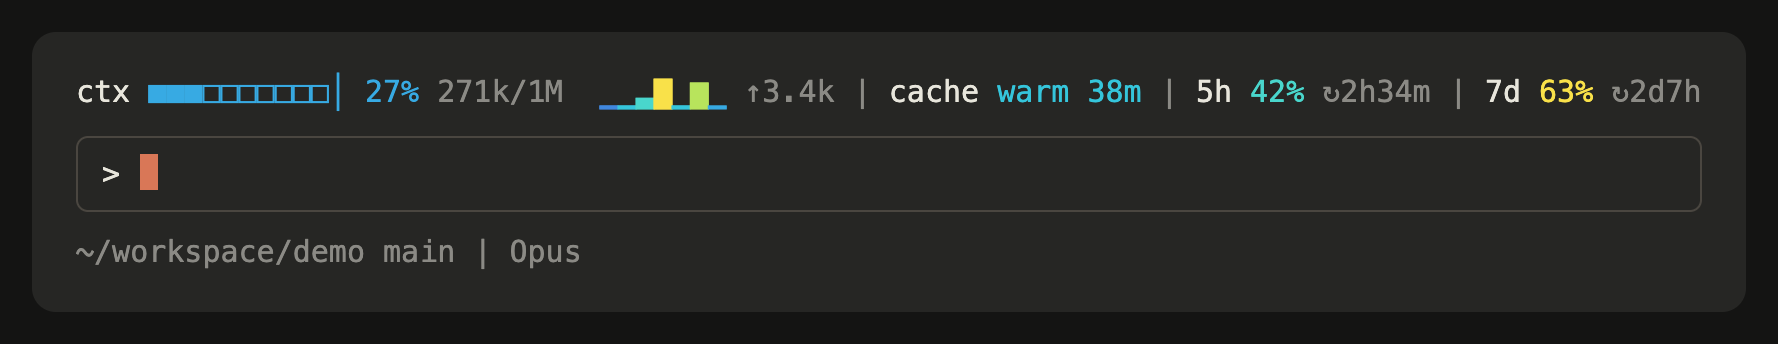
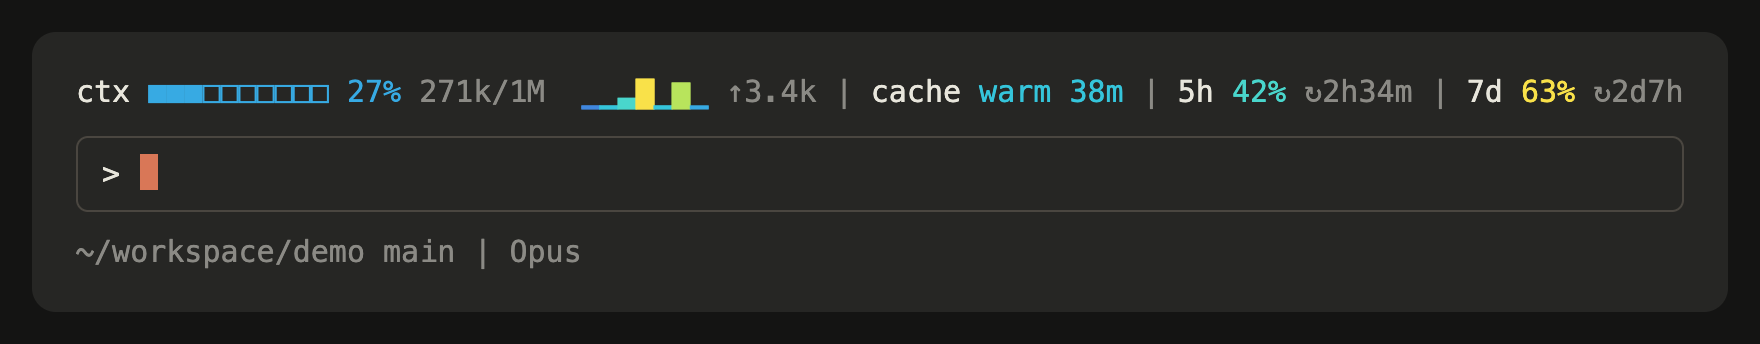
Remove the auto-compaction mark from the context bar
On the 1M window most sessions run, the threshold (967k) rounds to the bar's end, where `│` read as a
separator between the bar and its figures and said no more than the bar's end. The bar, its Svg and the
terminal's multi-coloured cells drop the mark (MARK, markCell, compactMark, the Span fields); the pane keeps
the threshold and the tokens to go as text. Docs, READMEs, site and screenshots follow.

Changed region(s): [[0.0312, 0.2035, 0.9688, 0.3198], [0.0312, 0.6977, 0.3438, 0.7849], [0.0625, 0.4942, 0.0938, 0.5233]]

diff --git a/plugin/hooks/format.ts b/plugin/hooks/format.ts
@@ -18,16 +18,14 @@ export function cacheTier(left: number, ttl: number): number {
 // Context totals kept for the sparkline: 8 totals, 7 bars.
 export const HISTORY = 8
 const BARS = '▁▂▃▄▅▆▇█'
-// Where auto-compaction runs, drawn between two cells of the context bar.
-export const MARK = '│'
 // The window growth is tiered by before any is known.
 export const FALLBACK_WINDOW = 1_000_000
 // Model families a rate-limit window may be named after.
 const FAMILIES = ['fable', 'opus', 'sonnet', 'haiku']
 
 // `text` is what the terminal draws and what widths count; `tier` its colour on the band's one scale (`GAIN`),
-// absent for plain text (the labels). A span with `bar` (a used percentage, with the auto-compaction `mark`
-// in its `markTier`) or `spark` (the gains, with their `tiers`) is a graphic: block glyphs line up only in a
+// absent for plain text (the labels). A span with `bar` (a used percentage) or `spark` (the gains, with their
+// `tiers`) is a graphic: block glyphs line up only in a
 // monospace font, so the desktop, which draws the band in a proportional one, draws those as an Svg instead
 // (`items`).
 export type Span = {
@@ -35,8 +33,6 @@ export type Span = {
   tier?: number
   dimColor?: boolean
   bar?: number
-  mark?: number
-  markTier?: number
   spark?: number[]
   tiers?: number[]
 }
@@ -89,16 +85,12 @@ export function colorOf(s: Span): string | undefined {
 
 export type Cell = { text: string; color?: string; dimColor?: boolean }
 
-// A span the terminal draws in more than one colour, piece by piece: the sparkline one glyph per gain in its
-// tier's colour, a marked bar its cells around the mark. Undefined for a span of one colour.
+// A span the terminal draws in more than one colour, piece by piece: the sparkline, one glyph per gain in its
+// tier's colour. Undefined for a span of one colour.
 export function cells(s: Span): Cell[] | undefined {
   const glyphs = [...s.text]
   if (s.spark) return s.spark.map((_, i) => ({ text: glyphs[i] ?? '', color: GAIN[s.tiers?.[i] ?? 0]?.dark ?? DIM.dark }))
-  if (s.mark === undefined) return undefined
-  const at = markCell(s.mark)
-  const ink: Cell = s.dimColor ? { text: '', dimColor: true } : { text: '', color: colorOf(s) }
-  const mark: Cell = s.dimColor ? { text: MARK, dimColor: true } : { text: MARK, color: colorOf({ text: '', tier: s.markTier }) }
-  return [{ ...ink, text: glyphs.slice(0, at).join('') }, mark, { ...ink, text: glyphs.slice(at + 1).join('') }].filter(c => c.text)
+  return undefined
 }
 
 export type Graphic = { source: string; alt: string; width: number; height: number }
@@ -113,24 +105,16 @@ function svg(width: number, height: number, style: string, body: string): string
   return `<svg xmlns="http://www.w3.org/2000/svg" width="${width}" height="${height}" viewBox="0 0 ${width} ${height}">${style}${body}</svg>`
 }
 
-// A graphic span as an Svg: the bar a 60×6 rounded track filled to the exact percentage, with a 2 px tick
-// standing past it where auto-compaction runs; the sparkline one 4 px column per gain on a shared baseline,
+// A graphic span as an Svg: the bar a 60×6 rounded track filled to the exact percentage; the sparkline one 4 px column per gain on a shared baseline,
 // 14 px at the largest and 3 px at the least so the smallest still shows its colour, each in its tier's
 // colour.
 export function svgOf(s: Span): Graphic | undefined {
   if (s.bar !== undefined) {
     const ink = s.dimColor ? DIM : (GAIN[s.tier ?? -1] ?? DIM)
     const w = Math.round((Math.min(Math.max(s.bar, 0), 100) * 60) / 100)
-    const marked = s.mark !== undefined
-    const y = marked ? 2 : 0
-    const height = marked ? 10 : 6
-    const track = `<rect x="0" y="${y}" width="60" height="6" rx="3" fill="${TRACK}"/>`
-    const done = w > 0 ? `<rect class="k" x="0" y="${y}" width="${w}" height="6" rx="3"/>` : ''
-    const markInk = s.dimColor ? DIM : (GAIN[s.markTier ?? -1] ?? DIM)
-    const x = marked ? Math.min(Math.max(Math.round(((s.mark ?? 0) * 60) / 100) - 1, 0), 58) : 0
-    const tick = marked ? `<rect class="m" x="${x}" y="0" width="2" height="10" rx="1"/>` : ''
-    const alt = `context ${s.bar}% used${marked ? `, auto-compacts at ${Math.round(s.mark ?? 0)}%` : ''}`
-    return { source: svg(60, height, inks([['k', ink], ['m', markInk]]), track + done + tick), alt, width: 60, height }
+    const track = `<rect x="0" y="0" width="60" height="6" rx="3" fill="${TRACK}"/>`
+    const done = w > 0 ? `<rect class="k" x="0" y="0" width="${w}" height="6" rx="3"/>` : ''
+    return { source: svg(60, 6, inks([['k', ink]]), track + done), alt: `context ${s.bar}% used`, width: 60, height: 6 }
   }
   if (s.spark && s.spark.length > 0) {
     const top = Math.max(...s.spark, 1)
@@ -180,19 +164,10 @@ export function kshort(t: number): string {
   return x % 10 === 0 ? `${x / 10}${u}` : `${Math.floor(x / 10)}.${x % 10}${u}`
 }
 
-// 10 cells, rounded to the nearest tenth: ■■■□□□□□□□; with a mark (a percentage), the mark between the two
-// cells nearest it: ■■■□□□□□│□□.
-export function bar(p: number, mark?: number): string {
+// 10 cells, rounded to the nearest tenth: ■■■□□□□□□□.
+export function bar(p: number): string {
   const filled = Math.max(Math.min(Math.floor((p + 5) / 10), 10), 0)
-  const cells = '■'.repeat(filled) + '□'.repeat(10 - filled)
-  if (mark === undefined) return cells
-  const at = markCell(mark)
-  return cells.slice(0, at) + MARK + cells.slice(at)
-}
-
-// How many cells stand before the mark: at least one, so a mark never reads as the bar's start.
-export function markCell(mark: number): number {
-  return Math.min(Math.max(Math.round(mark / 10), 1), 10)
+  return '■'.repeat(filled) + '□'.repeat(10 - filled)
 }
 
 export function gains(history: number[]): number[] {
@@ -267,25 +242,15 @@ function growth(history: number[], window: number): Span[] {
   ]
 }
 
-// Where auto-compaction runs as a share of the window, coloured by how near `used` is to it: none when no
-// threshold is known or it lies at or past the window's end.
-export function compactMark(ctx: OverheadCtx, used?: number): { mark?: number; markTier?: number } {
-  const { compactAt, window } = ctx
-  if (compactAt === undefined || compactAt <= 0 || compactAt >= window) return {}
-  return { mark: (compactAt * 100) / window, ...(used !== undefined && { markTier: pctTier((used * 100) / compactAt) }) }
-}
-
-// The main conversation's context: bar (with the auto-compaction mark), percentage, tokens and growth.
+// The main conversation's context: bar, percentage, tokens and growth.
 function contextGroup(b: BandInput, ctx: OverheadCtx, d: Detail): Span[] {
   const { tokens, window, estimate } = ctx
-  const { mark } = compactMark(ctx)
   if (tokens !== undefined && tokens > 0) {
     const p = Math.trunc(ctx.percent ?? (tokens * 100) / window)
-    const { markTier } = compactMark(ctx, tokens)
     const g: Span[] = [
       { text: 'ctx' },
       { text: ' ' },
-      { text: bar(p, mark), tier: pctTier(p), bar: p, mark, markTier },
+      { text: bar(p), tier: pctTier(p), bar: p },
       { text: ` ${p}%`, tier: pctTier(p) },
     ]
     if (d.tokens) g.push({ text: ` ${ktok(tokens)}/${ktok(window)}`, dimColor: true })
@@ -298,7 +263,7 @@ function contextGroup(b: BandInput, ctx: OverheadCtx, d: Detail): Span[] {
     const g: Span[] = [
       { text: 'ctx' },
       { text: ' ' },
-      { text: bar(p, mark), dimColor: true, bar: p, mark },
+      { text: bar(p), dimColor: true, bar: p },
       { text: ` ~${p}%`, dimColor: true },
     ]
     if (d.tokens) g.push({ text: ` ~${ktok(estimate)}/${ktok(window)}`, dimColor: true })

diff --git a/scripts/screenshot/design.ts b/scripts/screenshot/design.ts
@@ -34,7 +34,7 @@ function groupByLabel(input: BandInput, label: string) {
 }
 const full = fit(band, 110)
 const featureDescriptions = [
-  ['上下文容量', '进度条 / 已用比例 / token 数 / 压缩刻度', '容量来自最后一次回复的实际读数。', 'ctx'],
+  ['上下文容量', '进度条 / 已用比例 / token 数', '容量来自最后一次回复的实际读数。', 'ctx'],
   ['每轮增长', '最近 7 次变化 / 最新增量', '柱高相对比较，颜色按窗口占比。', 'growth'],
   ['缓存冷热', 'warm / cold / 剩余分钟', '仅跟踪主对话请求的缓存读写。', 'cache'],
   ['使用额度', '5 小时 / 每周 / 重置倒计时', '显示已用比例，额度读数来自宿主。', 'quota'],
@@ -195,7 +195,7 @@ const layout = `
   <div class="palette-label"><span>深色主题 · Text 与 Svg</span><span>每列依次：颜色 / 上下文与额度已用比例 / 单次增长占窗口比例</span></div>
   <div class="scale">${scale}</div><div class="scale-meanings"><span>安全 · 冷色</span><span>注意 · 黄绿到黄</span><span>警告 · 暖色到红</span></div>
   <div class="light-palette"><div class="palette-label"><span>浅色主题 · 仅 Svg 自动切换</span><span>Text 仍用深色列；浅色主题尚未实测</span></div><div class="scale">${lightScale}</div></div>
-  <div class="mapping"><p><b>图形尺寸</b>　桌面进度条 60 × 6 px，自动压缩刻度 2 × 10 px；增长柱宽 4 px，柱间距 2 px，柱高 3–14 px。终端进度条为 10 格，按最接近的 10% 绘制，刻度 │ 插在离阈值最近的两格之间。</p><p><b>增长与缓存</b>　保留 ${HISTORY} 个不同总量，形成最多 ${HISTORY - 1} 根柱。柱高相对比较，颜色按绝对占比；warm 与剩余分钟同色：寿命充裕为青，最后五分之一为橙，cold 为暗色。</p></div>
+  <div class="mapping"><p><b>图形尺寸</b>　桌面进度条 60 × 6 px；增长柱宽 4 px，柱间距 2 px，柱高 3–14 px。终端进度条为 10 格，按最接近的 10% 绘制。</p><p><b>增长与缓存</b>　保留 ${HISTORY} 个不同总量，形成最多 ${HISTORY - 1} 根柱。柱高相对比较，颜色按绝对占比；warm 与剩余分钟同色：寿命充裕为青，最后五分之一为橙，cold 为暗色。</p></div>
   <footer>${stamp}</footer>
 </section>`
 
@@ -249,7 +249,7 @@ const english: Record<string, string> = {
   '主上下文与增长 → 缓存 → 5 小时额度 → 每周额度': 'Context & growth → cache → 5-hour quota → weekly quota',
   '有调查问卷时，让出横条。': 'Yield the band to a survey.',
   '上下文容量': 'Context window',
-  '进度条 / 已用比例 / token 数 / 压缩刻度': 'Bar / used percentage / tokens / compaction mark',
+  '进度条 / 已用比例 / token 数': 'Bar / used percentage / tokens',
   '容量来自最后一次回复的实际读数。': 'Figures from the last response.',
   '每轮增长': 'Per-turn growth',
   '最近 7 次变化 / 最新增量': 'Last 7 changes / latest delta',
@@ -281,7 +281,7 @@ const english: Record<string, string> = {
   '浅色主题 · 仅 Svg 自动切换': 'Light theme · Svg switches automatically',
   'Text 仍用深色列；浅色主题尚未实测': 'Text keeps dark colors; light themes are not verified',
   '图形尺寸': 'Graphic dimensions',
-  '桌面进度条 60 × 6 px，自动压缩刻度 2 × 10 px；增长柱宽 4 px，柱间距 2 px，柱高 3–14 px。终端进度条为 10 格，按最接近的 10% 绘制，刻度 │ 插在离阈值最近的两格之间。': 'Desktop bar: 60 × 6 px, auto-compaction tick 2 × 10 px. Growth columns: 4 px wide, 2 px apart, 3–14 px tall. The terminal bar has 10 cells, rounded to the nearest 10%, with the │ mark between the two cells nearest the threshold.',
+  '桌面进度条 60 × 6 px；增长柱宽 4 px，柱间距 2 px，柱高 3–14 px。终端进度条为 10 格，按最接近的 10% 绘制。': 'Desktop bar: 60 × 6 px. Growth columns: 4 px wide, 2 px apart, 3–14 px tall. The terminal bar has 10 cells, rounded to the nearest 10%.',
   '增长与缓存': 'Growth and cache',
   [`保留 ${HISTORY} 个不同总量，形成最多 ${HISTORY - 1} 根柱。柱高相对比较，颜色按绝对占比；warm 与剩余分钟同色：寿命充裕为青，最后五分之一为橙，cold 为暗色。`]: `Keep ${HISTORY} changed totals for up to ${HISTORY - 1} bars. Heights compare recent gains; colors use absolute window share. Warm and its minutes share one colour: cyan while plenty is left, orange in the last fifth; cold is dim.`,
   '状态规则与数据边界': 'State rules and data boundaries',

diff --git a/plugin/hooks/pane.ts b/plugin/hooks/pane.ts
@@ -3,7 +3,7 @@
 // the surfaces with a proportional font).
 import type { OverheadAgent, OverheadBreakdown, OverheadCacheStats, OverheadCompaction } from '../types'
 import type { BandInput, Span } from './format'
-import { FALLBACK_WINDOW, bar, cacheTier, compactMark, dur, gainTier, gains, kshort, ktok, modelFamily, pctTier, sparkline, weeklyWindow } from './format'
+import { FALLBACK_WINDOW, bar, cacheTier, dur, gainTier, gains, kshort, ktok, modelFamily, pctTier, sparkline, weeklyWindow } from './format'
 import { AGENTS, hitRate } from './track'
 
 export type PaneInput = BandInput & {
@@ -45,20 +45,18 @@ function context(p: PaneInput): PaneLine[] {
   const ctx = p.ctx
   if (!ctx || ctx.window <= 0) return [...out, line('window', dim(' no reading yet'))]
   const { tokens, window, estimate, compactAt } = ctx
-  const { mark } = compactMark(ctx)
   const now = tokens !== undefined && tokens > 0 ? tokens : undefined
   if (now !== undefined) {
     const pc = Math.trunc(ctx.percent ?? (now * 100) / window)
-    const { markTier } = compactMark(ctx, now)
-    out.push(line('window', { text: ' ' }, { text: bar(pc, mark), tier: pctTier(pc), bar: pc, mark, markTier }, { text: ` ${pc}%`, tier: pctTier(pc) }, dim(` ${ktok(now)} of ${ktok(window)}`)))
+    out.push(line('window', { text: ' ' }, { text: bar(pc), tier: pctTier(pc), bar: pc }, { text: ` ${pc}%`, tier: pctTier(pc) }, dim(` ${ktok(now)} of ${ktok(window)}`)))
   } else if (estimate !== undefined && estimate > 0) {
     const pc = Math.trunc((estimate * 100) / window)
-    out.push(line('window', { text: ' ' }, { text: bar(pc, mark), dimColor: true, bar: pc, mark }, dim(` ~${pc}% ~${ktok(estimate)} of ${ktok(window)}, estimated before the first response`)))
+    out.push(line('window', { text: ' ' }, { text: bar(pc), dimColor: true, bar: pc }, dim(` ~${pc}% ~${ktok(estimate)} of ${ktok(window)}, estimated before the first response`)))
   } else {
     out.push(line('window', dim(` -- of ${ktok(window)}`)))
   }
-  // Said only where the band draws the mark: a threshold at or past the window's end is never reached.
-  if (compactAt !== undefined && mark !== undefined) {
+  // Where auto-compaction runs and the tokens to go; a threshold at or past the window's end is never reached.
+  if (compactAt !== undefined && compactAt > 0 && compactAt < window) {
     const used = now ?? estimate
     const left = used === undefined ? undefined : Math.max(compactAt - used, 0)
     out.push(

diff --git a/plugin/tests/ccoverhead.test.ts b/plugin/tests/ccoverhead.test.ts
@@ -282,38 +282,6 @@ describe('ccoverhead', () => {
       expect(await ui.find({ type: 'Text', text: /^ ?~13k\/1M$/ })).toBeDefined()
     })
 
-    test(`the context bar marks where auto-compaction runs (${surface})`, async ($, on) => {
-      let threshold: number | undefined = 335_000
-      on('session.start', ($, e) => ({ cwd: e.cwd }))
-      on('session.measure', ($, e) => ({ changed: e.changed }))
-      mock.store(on)
-      // A compaction window of 368k on the 1M model: the threshold sits a third of the way along the bar.
-      on('session.usage', ($, e) => ({
-        value: usage(300_000, [], e.breakdown !== undefined && { ...BREAKDOWN, autoCompactThreshold: threshold, isAutoCompactEnabled: threshold !== undefined }),
-      }))
-      mock.clock(on, { now: NOW })
-      await $.session.start(session(surface))
-      await $.session.measure(measured(fill(300_000, 30)))
-      const ui = await $.ui.mount(band(surface))
-      // 30% used, the mark at 33.5%: three cells, the mark, seven. 300k of 335k is 89%: the mark is orange.
-      if (surface === 'terminal') {
-        expect((await ui.find({ type: 'Text', text: /^■■■$/ }))?.props.color).toBe(TIER_HEX[3])
-        expect((await ui.find({ type: 'Text', text: /^│$/ }))?.props.color).toBe(TIER_HEX[8])
-        expect((await ui.find({ type: 'Text', text: /^□{7}$/ }))?.props.color).toBe(TIER_HEX[3])
-      } else {
-        const bar = (await ui.findAll({ type: 'Svg' })).find(one => /^context/.test(String(one.props.alt)))
-        expect(bar?.props.alt).toBe('context 30% used, auto-compacts at 34%')
-        expect(String(bar?.props.source)).toContain(`.m{fill:${TIER_HEX[8]}}`)
-        expect(String(bar?.props.source)).toContain('<rect class="m" x="19"')
-      }
-
-      // Auto-compaction off: no mark.
-      threshold = undefined
-      await $.session.measure(measured(fill(310_000, 31)))
-      await graphic(ui, 'bar', surface, /^■■■□{7}$/, 3)
-      expect(await ui.find({ type: 'Text', text: /│/ })).toBeUndefined()
-    })
-
     test(`a resumed conversation shows its cache's age at once and its first rewrite (${surface})`, async ($, on) => {
       let read = 0
       on('session.start', ($, e) => ({ cwd: e.cwd }))

diff --git a/site/index.html b/site/index.html
@@ -104,7 +104,7 @@
         <div class="band-card">
           <div class="band-display">
             <span class="group-token label">ctx</span>
-            <span class="group-token bar-text">■■■□□□□□□□│</span>
+            <span class="group-token bar-text">■■■□□□□□□□</span>
             <span class="group-token tier-sky">27%</span>
             <span class="group-token dim">271k/1M</span>
             <span class="group-token sparkline">▁▂▄█▂▇▁</span>
@@ -127,7 +127,7 @@
               <span class="dot tier-sky-dot"></span>
               <div>
                 <h4>Context Window</h4>
-                <p>Usage bar, percentage and <code>used/window</code> tokens; <code>│</code> marks where auto-compaction runs. Pre-response estimate marked <code>~</code>.</p>
+                <p>Usage bar, percentage and <code>used/window</code> tokens. Pre-response estimate marked <code>~</code>.</p>
               </div>
             </div>
             <div class="breakdown-item">
@@ -194,11 +194,6 @@
             <svg viewBox="0 0 24 24" aria-hidden="true"><path d="M12 3L4 7v6c0 5 3.5 9.5 8 10.5 4.5-1 8-5.5 8-10.5V7l-8-4z" /><path d="M9 12l2 2 4-4" /></svg>
             <h3>Zero telemetry, pure privacy</h3>
             <p>Only reads numbers Claude Code already exposes. No network requests, no model requests, no background processes.</p>
-          </article>
-          <article>
-            <svg viewBox="0 0 24 24" aria-hidden="true"><rect x="3" y="9" width="18" height="6" rx="3" /><path d="M16 5v14" /></svg>
-            <h3>Where auto-compaction runs</h3>
-            <p>A mark on the context bar at Claude Code's own threshold, warming as you approach it. Compaction stops being a surprise.</p>
           </article>
           <article>
             <svg viewBox="0 0 24 24" aria-hidden="true"><rect x="3" y="3" width="18" height="18" rx="3" /><path d="M7 8h10M7 12h6M7 16h8" /></svg>

diff --git a/scripts/screenshot/render.ts b/scripts/screenshot/render.ts
@@ -19,7 +19,7 @@ const DIM = '#8b8a85'
 const INK = '#e8e6dc'
 const esc = (t: string) => t.replace(/&/g, '&amp;').replace(/</g, '&lt;')
 
-// Spans as the terminal draws them: block glyphs, a multi-coloured span (the sparkline, a marked bar) piece by piece.
+// Spans as the terminal draws them: block glyphs, a multi-coloured span (the sparkline) piece by piece.
 function spans(run: Span[]): string {
   return run
     .map(s => {

diff --git a/README.zh-CN.md b/README.zh-CN.md
@@ -23,7 +23,7 @@
 <p align="center"><a href="https://shengyy.github.io/ccoverhead/"><strong>网站</strong></a></p>
 
 <p align="center">
-  <img src="assets/screenshots/desktop.png" width="760" alt="Claude 桌面端里的 ccOverhead 横条：上下文条 27%、末端是自动压缩刻度、七根颜色各异的增长柱、缓存「还热 38 分钟」、5 小时额度 42%、每周额度 63%">
+  <img src="assets/screenshots/desktop.png" width="760" alt="Claude 桌面端里的 ccOverhead 横条：上下文条 27%、七根颜色各异的增长柱、缓存「还热 38 分钟」、5 小时额度 42%、每周额度 63%">
 </p>
 
 ---
@@ -33,7 +33,6 @@
 ## 功能
 
 - **上下文一眼看清**：进度条、已用百分比和「已用/窗口」token 数。新会话第一个回复之前（以及 `/clear`、compact 之后）显示 Claude Code 自己的 `/context` 估算值，前面带 `~`，不会是空白。
-- **自动压缩在哪里触发**：上下文条上有一道刻度，标出 Claude Code 自动压缩的阈值，越接近颜色越暖，压缩不再突然发生。
 - **每轮增长**：一组七根柱子，显示最近每一轮给上下文加了多少，`↑` 是最后一轮的增量。每根柱子按它占窗口的比例上色，重的一轮会很显眼。
 - **额度与重置倒计时**：5 小时和每周两个窗口（以及 Claude 网关的花费额度）的已用百分比，以及各自距离重置还有多久。
 - **prompt 缓存冷热**：主对话上一次请求有没有命中缓存、还能热多久，最后一段寿命转为橙色，让你知道停下来多久会导致重写缓存；某一轮真的重写了，横条会告诉你写了多少。
@@ -69,12 +68,12 @@
 横条从左到右，依次是每轮都在变的、变化慢的：
 
 ```text
-ctx ■■■□□□□□□□│ 27% 271k/1M  ▁▁▃█▁▇▁ ↑3.4k | cache warm 38m | 5h 42% ↻2h34m | 7d 63% ↻2d7h
+ctx ■■■□□□□□□□ 27% 271k/1M  ▁▁▃█▁▇▁ ↑3.4k | cache warm 38m | 5h 42% ↻2h34m | 7d 63% ↻2d7h
 ```
 
 | 组 | 含义 |
 |---|---|
-| `ctx` | 上下文用量：进度条、百分比、token 数。`│` 是自动压缩触发的位置，`~` 表示第一个回复前的估算值。正在看 subagent 的记录时显示为 `agent` |
+| `ctx` | 上下文用量：进度条、百分比、token 数。`~` 表示第一个回复前的估算值。正在看 subagent 的记录时显示为 `agent` |
 | 柱子和 `↑` | 最近七轮各自加了多少；`↑` 是最后一轮 |
 | `cache` | `warm` 加剩余分钟数，寿命充裕为青色、最后五分之一转橙，或 `cold`；某一轮重新写入缓存而没能读到时，显示 `rewrote` 和写入量 |
 | `5h`、`7d` | 各窗口的额度已用比例，`↻` 是距离重置的时间。暗色表示沿用上一个会话的读数。Claude Code 上报了当前主模型自己的周额度时，`7d` 改显示它，例如 `7d fable`（未验证） |

diff --git a/README.md b/README.md
@@ -23,7 +23,7 @@
 <p align="center"><a href="https://shengyy.github.io/ccoverhead/"><strong>Website</strong></a></p>
 
 <p align="center">
-  <img src="assets/screenshots/desktop.png" width="760" alt="The ccOverhead band in the Claude desktop app: a context bar at 27 percent with the auto-compaction tick at its end, a seven-bar growth chart in mixed colours, the cache warm for 38 minutes, 5-hour quota 42 percent, weekly quota 63 percent">
+  <img src="assets/screenshots/desktop.png" width="760" alt="The ccOverhead band in the Claude desktop app: a context bar at 27 percent, a seven-bar growth chart in mixed colours, the cache warm for 38 minutes, 5-hour quota 42 percent, weekly quota 63 percent">
 </p>
 
 ---
@@ -39,8 +39,6 @@ and opens the detail behind them in a pane when you ask.
 - **Context at a glance.** A bar, the used percentage and `used/window` tokens. Before the first response
   of a session (or after `/clear` or compaction) it shows Claude Code's own `/context` estimate, marked
   `~`, instead of a blank.
-- **Where auto-compaction runs.** A mark on the context bar at Claude Code's auto-compaction threshold,
-  warming as the context nears it, so compaction never comes as a surprise.
 - **Each turn's growth.** A seven-bar chart of what every recent turn added to the context, plus the last
   turn's `↑` figure. Each bar is colored by its share of the window, so a heavy turn stands out.
 - **Quota with reset countdowns.** The 5-hour and weekly windows (and a Claude gateway's spend limit), as a
@@ -89,12 +87,12 @@ Remove with `/plugin uninstall ccoverhead@ccoverhead`.
 The band reads left to right, from what changes every turn to what changes slowly:
 
 ```text
-ctx ■■■□□□□□□□│ 27% 271k/1M  ▁▁▃█▁▇▁ ↑3.4k | cache warm 38m | 5h 42% ↻2h34m | 7d 63% ↻2d7h
+ctx ■■■□□□□□□□ 27% 271k/1M  ▁▁▃█▁▇▁ ↑3.4k | cache warm 38m | 5h 42% ↻2h34m | 7d 63% ↻2d7h
 ```
 
 | Group | Meaning |
 |---|---|
-| `ctx` | Context used: bar, percentage, tokens. `│` marks where auto-compaction runs. `~` marks the pre-response estimate. Reads `agent` while a subagent's transcript is on screen |
+| `ctx` | Context used: bar, percentage, tokens. `~` marks the pre-response estimate. Reads `agent` while a subagent's transcript is on screen |
 | Bars and `↑` | What each of the last seven turns added; `↑` is the latest turn |
 | `cache` | `warm` and its minutes, cyan and orange in the last fifth of the lifetime, or `cold`; `rewrote` and its tokens on a turn that wrote the cache again instead of reading it |
 | `5h`, `7d` | Quota used in each window, and `↻` the time until it resets. Dim when remembered from an earlier session. `7d` follows the main model's own weekly window when Claude Code reports one, such as `7d fable` (not verified) |

diff --git a/docs/claude-code-integration.md b/docs/claude-code-integration.md
@@ -12,7 +12,7 @@ row when you rely on it in a new version, and add the version you checked.
 | `$.session.usage()` answers `{ context, rateLimits }` as the status line has them: `context.window`, and `tokens` / `percent` from the last response | 2.1.288, 2.1.289 |
 | Before the first response of a window (new session, after `/clear`, after compaction) `context` holds only `window` | 2.1.288, 2.1.289 |
 | `$.session.usage({ breakdown: 'summary' })` adds `context.breakdown`, a local `/context` count; `totalTokens` counts system prompt, tools, memory files and skills, not deferred tools. It sends no request and took about 20 ms (2–3 ms on 2.1.289) | 2.1.288, 2.1.289 |
-| The breakdown's `autoCompactThreshold` is a token total and `isAutoCompactEnabled` says whether it applies: 967,000 on Opus 5.5's 1M window (`autocompactSource` `model-default`), 167,000 on Haiku 4.5's 200k window (`auto`); with `CLAUDE_CODE_AUTO_COMPACT_WINDOW=100000` on Haiku, `rawMaxTokens` is 100,000 and the threshold 67,000 while `context.window` stays 200,000, so the mark is placed on `context.window`'s scale; with `DISABLE_AUTO_COMPACT=1`, `isAutoCompactEnabled` is false and there is no threshold | 2.1.289 |
+| The breakdown's `autoCompactThreshold` is a token total and `isAutoCompactEnabled` says whether it applies: 967,000 on Opus 5.5's 1M window (`autocompactSource` `model-default`), 167,000 on Haiku 4.5's 200k window (`auto`); with `CLAUDE_CODE_AUTO_COMPACT_WINDOW=100000` on Haiku, `rawMaxTokens` is 100,000 and the threshold 67,000 while `context.window` stays 200,000, so ccOverhead measures the threshold against `context.window`; with `DISABLE_AUTO_COMPACT=1`, `isAutoCompactEnabled` is false and there is no threshold | 2.1.289 |
 | The breakdown's `categories` carry a `kind`: `used` rows (system prompt, system tools, MCP server instructions, skills, messages, …), `deferred` rows (tool schemas loaded on demand, outside the window) and the `free` row; `mcpTools` name each schema's `serverName` and `isLoaded` | 2.1.289 |
 | A breakdown the engine refuses rejects the call; ccOverhead treats that as no estimate | 2.1.288 (test kit) |
 | `session.measure` fires after each main-thread turn and when a rate-limit window moves a whole point, with `context`, `rateLimits` and `changed`; it also carries `cost`, and `changed` names it when the cost moved (`['context', 'cost']` after a turn) | 2.1.288, 2.1.289 |

diff --git a/docs/architecture.md b/docs/architecture.md
@@ -35,7 +35,7 @@ band and the pane by itself; the clock invalidates only so the countdowns keep t
 | `hooks/hooks.json` | Names the hooks module |
 | `hooks/register.tsx` | Event hooks: loading figures, recording growth, compactions, cache and subagents, resetting on a new conversation, the `/ccoverhead` command, choosing the tree per surface |
 | `hooks/track.ts` | Pure state updates: the growth history and timeline, compactions, the cache's running counts and rewrite mark (`addStep`, `compacted`), each subagent's totals (`addAgentStep`) |
-| `hooks/format.ts` | Pure formatting of the band: groups and spans, narrowing (`fit`), the weekly window for the model (`weeklyWindow`, `modelFamily`), the color scale (`GAIN`, `pctTier`, `gainTier`), the auto-compaction mark, multi-colored spans (`cells`), the desktop's Svg (`svgOf`, `items`) |
+| `hooks/format.ts` | Pure formatting of the band: groups and spans, narrowing (`fit`), the weekly window for the model (`weeklyWindow`, `modelFamily`), the color scale (`GAIN`, `pctTier`, `gainTier`), the cache state (`cacheTier`), multi-colored spans (`cells`), the desktop's Svg (`svgOf`, `items`) |
 | `hooks/pane.ts` | Pure formatting of the pane: its sections as lines of a label and spans (`paneLines`) |
 | `hooks/draw.tsx` | The band and the pane as element trees, for the terminal and for the surfaces with Svg |
 | `types/index.d.ts` | The `$.state` contract, `PluginState['ccoverhead']` |
@@ -70,7 +70,7 @@ plugin from a folder (ignored by Git).
 `format.ts` builds the band once as groups of spans, and `pane.ts` the pane as lines of a label and spans.
 A span's `text` is what the terminal draws and what widths are counted in; `tier` is its color on the
 scale; a span with `bar` or `spark` is a graphic. `draw.tsx` renders spans as nested `Text` on the
-terminal, the sparkline and a marked bar piece by piece (`cells`). Elsewhere it
+terminal, the sparkline piece by piece (`cells`). Elsewhere it
 renders each group or line as a `Box` row spaced by `gap`, trims text to drop the spaces the terminal
 needs, and turns graphic spans into `Svg` with their own light-theme colors. The look is specified in
 [design.md](design.md).

diff --git a/PRODUCT.md b/PRODUCT.md
@@ -55,9 +55,9 @@ It shows figures; it never acts on them. Compacting, pausing or switching models
   new session, after `/clear`, after compaction) it shows Claude Code's local `/context` estimate, dim and
   marked `~`; the estimate sends no request.
 - If Claude Code cannot give an estimate, the band shows the window size with `--`, never a stale figure.
-- A mark on the bar shows where auto-compaction runs, at the threshold's share of the window; its color is
-  how near the context is to the threshold, on the percentage scale. No mark while auto-compaction is off.
-  The threshold is read with the same local count as the estimate, so it costs no request.
+- The band draws no auto-compaction mark: on a 1M window the threshold (967k) sits at the bar's end, where
+  a mark read as a separator and said no more than the bar's end. The pane gives the threshold and the
+  tokens to go, read with the same local count as the estimate, so it costs no request.
 
 ### Growth
 
